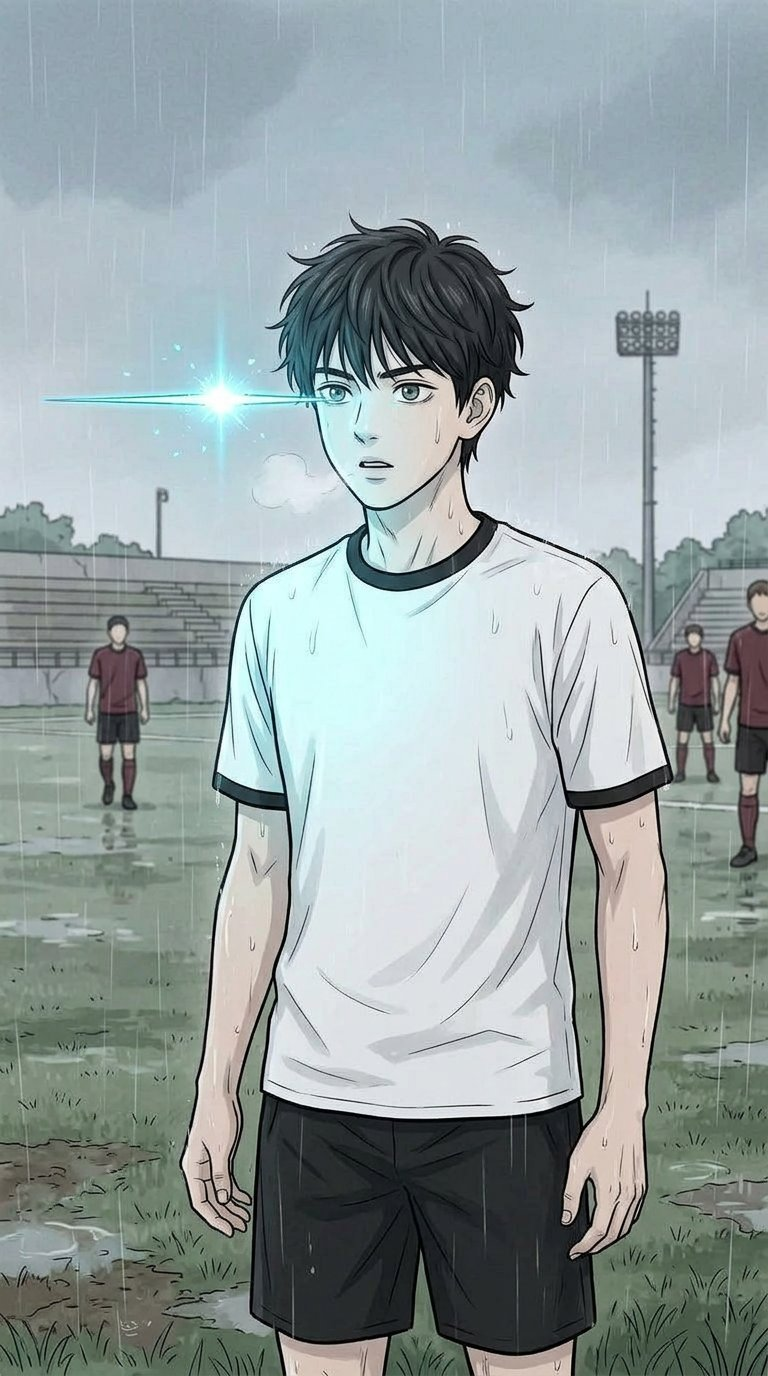
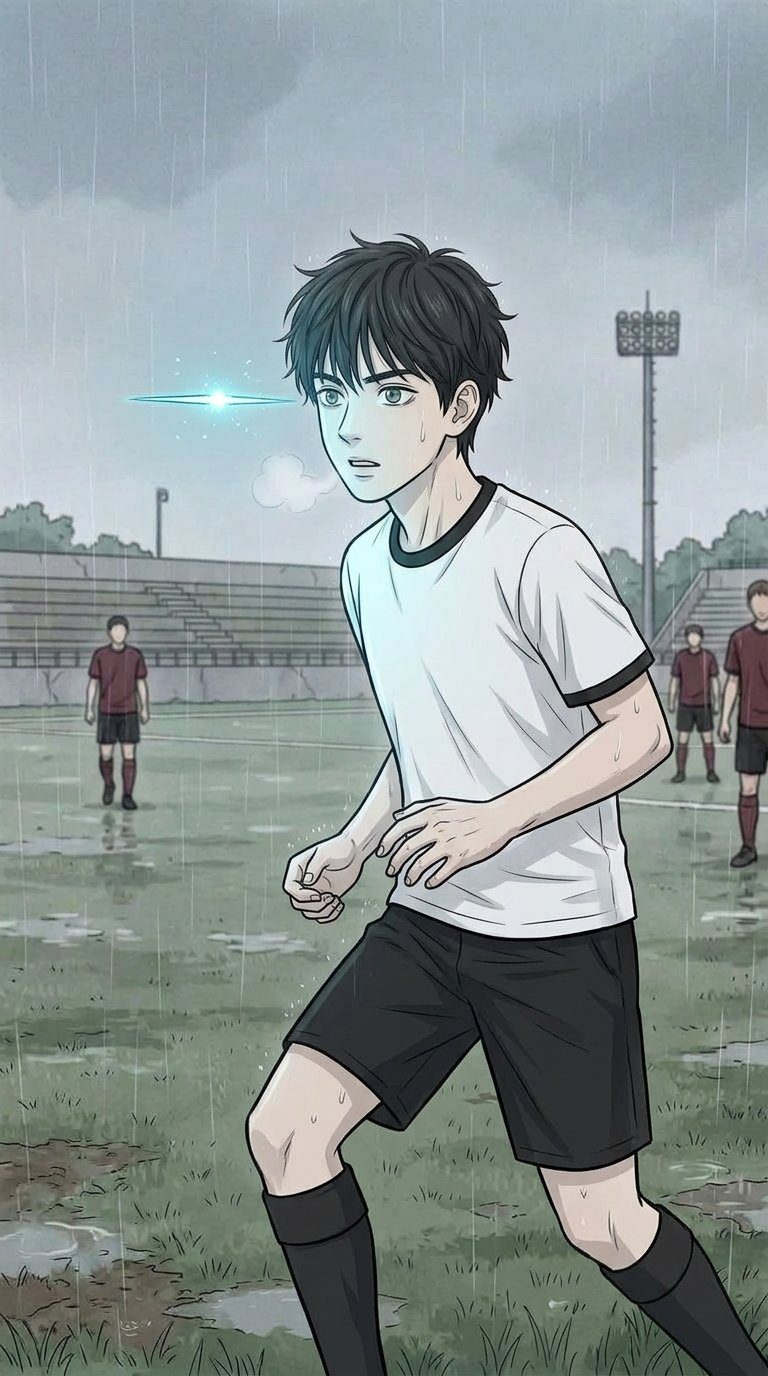
Polish chapter 1 v6 and record checkpoint 2

diff --git a/build_lettering.py b/build_lettering.py
@@ -463,7 +463,7 @@ def apply_ch1_frame(num, im_rgb):
                 ('мачта', (650, 70, 785, 515))]
         stamp(im, (30, 32), '58′ · 2 : 0', boxes, keep, '10_st', size=32)
         say(im, [
-            (412, 292, ['Блин… Опять подбор', 'проспали.']),
+            (412, 292, ['Не успеваем…', 'Совсем сели.']),
         ], tail_to=(568, 498), boxes=boxes, keepouts=keep, tag='10_shat', size=31, bend=-0.12)
 
     elif num == '11':  # 71′ полузащитник Шатский почувствовал дискомфорт в задней поверхности бедра
@@ -512,8 +512,12 @@ def apply_ch1_frame(num, im_rgb):
         sfx(im, (318, 162), 'ТК!', boxes, keep, tag='18_sfx', size=62, angle=-11.0)
 
     elif num == '20':  # 89′ пас низом в одно касание между Корнеевым и Жуком
-        keep = [('ветров', (120, 330, 560, 1205)), ('мяч', (195, 1035, 355, 1208))]
+        keep = [('ветров', (120, 330, 560, 1205)), ('мяч', (195, 1035, 355, 1208)),
+                ('корнеев_голова', (70, 370, 270, 610)), ('жук_голова', (590, 350, 798, 620))]
         stamp(im, (30, 32), '89′', boxes, keep, '20_st', size=32)
+        say(im, [
+            (235, 214, ['В касание?!']),
+        ], tail_to=(174, 414), boxes=boxes, keepouts=keep, tag='20_kor', size=31, bend=-0.12)
         sfx(im, (285, 1286), 'ТУК!', boxes, keep, tag='20_sfx', size=54, angle=-7.0)
 
     elif num == '21':  # раздевалка после матча, руки и бутылка воды
@@ -638,7 +642,7 @@ def render_gutter(bg_top, bg_bot, items, pad_top=74, pad_bot=78, item_gap=44, mi
 
 
 # ══════════════════════════════════════════════════════════════════
-# ПАРТИТУРА ГЛАВЫ 1 (22 кадра: первый выезд, «Речник» и пара
+# ПАРТИТУРА ГЛАВЫ 1 (24 кадра: первый выезд, «Речник» и пара
 # Корнеев–Жук, пробуждение Системы ТОЛЬКО на 72′ в момент сильного
 # волнения, окна в стиле Solo Leveling, живая разговорная речь)
 # ══════════════════════════════════════════════════════════════════
@@ -646,7 +650,7 @@ CH1_OPENING_GUTTER = dict(
     bg=(DARK, PAPER), pad_bot=84, item_gap=38, items=[
         {'kind': 'fade', 'h': 160, 'pad_after': 56},
         {'kind': 'stamp', 'text': 'ВИТЕБСК · НОЯБРЬ'},
-        {'lines': ['Суббота, полседьмого утра.', 'Первый выезд со взрослой командой.'], 'pos': 'center', 'size': 35, 'w': 'em'},
+        {'lines': ['Суббота, девять утра.', 'Первый выезд со взрослой командой.'], 'pos': 'center', 'size': 35, 'w': 'em'},
     ],
 )
 
@@ -697,12 +701,12 @@ CH1_SCORE = [
     ('ch1/n20_firsthalf.jpg', '08', 1380, 3, 'paper', dict(
         bg=(PAPER, PAPER), pad_top=80, pad_bot=84, item_gap=38, items=[
             {'lines': ['Двадцать минут — а мы центр поля', 'раза два перешли.'], 'pos': 'left', 'size': 35, 'w': 'em'},
-            {'lines': ['Корнеев забирает вообще', 'весь подбор.'], 'pos': 'right', 'size': 34, 'w': 'el'},
+            {'lines': ['Корнеев снимает почти всё,', 'что летит в центр.'], 'pos': 'right', 'size': 34, 'w': 'el'},
         ])),
 
     ('ch1/n30_goal_rain.jpg', '09', 1380, 3, 'paper', dict(
         bg=(PAPER, PAPER), pad_top=84, pad_bot=86, item_gap=42, items=[
-            {'lines': ['Ну вот, доигрались.', 'Дали пробить с подбора — по мокрой', 'траве такой не вытащишь.'], 'pos': 'left', 'size': 34, 'w': 'em'},
+            {'lines': ['Ну вот, доигрались.', 'Дали пробить вторым темпом —', 'по мокрой траве такой не вытащишь.'], 'pos': 'left', 'size': 34, 'w': 'em'},
             {'lines': ['До свистка кое-как дотерпели,', 'ушли на перерыв при 0:1.'], 'pos': 'right', 'size': 34, 'w': 'el'},
             {'kind': 'stamp', 'text': '2-Й ТАЙМ'},
             {'lines': ['В раздевалке тренер напихал за центр,', 'но после перерыва нас прижали', 'ещё сильнее.'], 'pos': 'center', 'size': 34, 'w': 'el'},
@@ -711,16 +715,14 @@ CH1_SCORE = [
     # 58′ · 2:0 и 71′ — дискомфорт у Шатского: живая подводка и причина выхода Ветрова
     ('ch1/a10_goal2.jpg', '10', 1380, 3, 'paper', dict(
         bg=(PAPER, PAPER), pad_top=84, pad_bot=88, item_gap=42, items=[
-            {'lines': ['На пятьдесят восьмой пустили второй —', 'Корнеев с Жуком в два паса', 'вскрыли середину.'], 'pos': 'left', 'size': 34, 'w': 'em'},
-            {'lines': ['По такой грязи наши уже еле бегут.'], 'pos': 'right', 'size': 34, 'w': 'el'},
-            {'lines': ['К семидесятой тренер выпустил двоих', 'в атаку, а я так и сижу в олимпийке:', 'при 0:2 пацана точно не тронут.'], 'pos': 'center', 'size': 34, 'w': 'el'},
+            {'lines': ['После перерыва нас растянули по ширине.', 'В центре всё время оставалась дыра.'], 'pos': 'left', 'size': 34, 'w': 'em'},
+            {'lines': ['К семидесятой тренер бросил двоих вперёд.', 'Я так и сижу в олимпийке:', 'при 0:2 пацана точно не тронут.'], 'pos': 'right', 'size': 34, 'w': 'el'},
         ])),
 
     ('ch1/a11_discomfort.jpg', '11', 1260, 3, 'paper', dict(
         bg=(PAPER, PAPER), pad_top=84, pad_bot=88, item_gap=42, items=[
-            {'lines': ['Шатский остановился у бровки —', 'держится за заднюю.'], 'pos': 'left', 'size': 35, 'w': 'em'},
-            {'lines': ['При 0:2 рисковать им нет смысла,', 'впереди ещё два тура. А в центр', 'на лавке больше никого — только я.'], 'pos': 'right', 'size': 34, 'w': 'el'},
-            {'lines': ['Тренер поворачивается к скамейке.'], 'pos': 'center', 'size': 36, 'w': 'em'},
+            {'lines': ['При 0:2 рисковать Шатским незачем —', 'впереди ещё два тура.'], 'pos': 'left', 'size': 34, 'w': 'el'},
+            {'lines': ['В центр на лавке больше никого.', 'Тренер смотрит прямо на меня.'], 'pos': 'right', 'size': 36, 'w': 'em'},
         ])),
 
     # 72′ — ВЫХОД НА ЗАМЕНУ И ПЕРВОЕ ПРОБУЖДЕНИЕ СИСТЕМЫ НА ПИКЕ ВОЛНЕНИЯ
@@ -733,8 +735,8 @@ CH1_SCORE = [
     ('ch1/a11_awakening.jpg', '13', 1400, 2, 'paper', dict(
         bg=(PAPER, DARK), pad_bot=88, item_gap=44, items=[
             {'kind': 'fade', 'h': 160, 'pad_after': 60},
-            {'lines': ['Пульс лупит прямо в ушах,', 'руки ледяные.'], 'pos': 'center', 'size': 35, 'w': 'el'},
-            {'lines': ['Делаю шаг на поле — и прямо перед', 'глазами вспыхивает синяя рамка.'], 'pos': 'center', 'size': 36, 'w': 'em'},
+            {'lines': ['Пульс стучит прямо в ушах.', 'Пальцы не слушаются.'], 'pos': 'center', 'size': 35, 'w': 'el'},
+            {'lines': ['Шаг на поле — и прямо перед лицом', 'вспыхивает тонкая синяя щель.'], 'pos': 'center', 'size': 36, 'w': 'em'},
         ])),
 
     ('ch1/p07_quest.png', '14', 900, 3, 'dark', dict(
@@ -761,7 +763,7 @@ CH1_SCORE = [
     ('ch1/a14_poke.jpg', '18', 492, 5, 'paper', dict(
         bg=(PAPER, DARK), pad_bot=88, item_gap=44, items=[
             {'kind': 'fade', 'h': 155, 'pad_after': 58},
-            {'lines': ['Затянул! Лишние полсекунды', 'искал, кому отдать вперёд.'], 'pos': 'center', 'size': 36, 'w': 'em'},
+            {'lines': ['Принял перед своей штрафной — и затянул.', 'Лишние полсекунды искал,', 'кому отдать вперёд.'], 'pos': 'center', 'size': 35, 'w': 'em'},
             {'lines': ['Жук сразу ткнул носком,', 'а Корнеев оттёр корпусом.'], 'pos': 'center', 'size': 34, 'w': 'el'},
         ])),
 
@@ -775,7 +777,7 @@ CH1_SCORE = [
     ('ch1/k4_pass89.jpg', '20', 1400, 3, 'paper', dict(
         bg=(PAPER, PAPER), pad_top=84, pad_bot=88, item_gap=42, items=[
             {'lines': ['Через минуту опять летят вдвоём.', 'Теперь не жду — сразу в касание', 'между ними.'], 'pos': 'left', 'size': 34, 'w': 'em'},
-            {'lines': ['Прошло! Смотрю вверх… Пусто.', 'За точный пас ничего не вернули.'], 'pos': 'right', 'size': 34, 'w': 'el'},
+            {'lines': ['Пас прошёл. Смотрю вверх… Пусто.', 'За него ничего не вернули.'], 'pos': 'right', 'size': 34, 'w': 'el'},
         ])),
 
     ('ch1/f05_hands.jpg', '21', 1180, 3, 'paper', dict(
@@ -795,15 +797,14 @@ CH1_SCORE = [
 
     ('ch1/k5_kitchen.jpg', '23', 1380, 3, 'dark', dict(
         bg=(DARK, DARK), pad_top=90, pad_bot=90, item_gap=44, items=[
-            {'lines': ['Дома записал цифры, пока помню.', 'Самому не верится — вдруг просто', 'перенервничал с непривычки.'], 'pos': 'center', 'size': 34, 'w': 'el'},
+            {'lines': ['В автобусе нацарапал всё по памяти.', 'Дома переписал начисто — вдруг утром', 'решу, что просто перенервничал.'], 'pos': 'center', 'size': 34, 'w': 'el'},
             {'lines': ['Поднимаю глаза — а над столом', 'опять горит синяя рамка.'], 'pos': 'center', 'size': 36, 'w': 'em'},
         ])),
 
     ('ch1/p37_day.png', '24', 734, 3, 'dark', dict(
         bg=(DARK, DARK), pad_top=94, pad_bot=82, item_gap=44, items=[
-            {'lines': ['Значит, не показалось.', 'И на неделю уже новый квест.'], 'pos': 'center', 'size': 35, 'w': 'el'},
-            {'lines': ['Стоп. А это ещё что за «ИВ»?'], 'pos': 'center', 'size': 36, 'w': 'em'},
-            {'kind': 'accent', 'text': 'ИВ — 68.', 'size': 44},
+            {'lines': ['Отбор — двадцать пять.', 'С этим понятно.'], 'pos': 'center', 'size': 35, 'w': 'el'},
+            {'lines': ['Но «ИВ» — шестьдесят восемь.', 'Откуда столько, если квест я завалил?'], 'pos': 'center', 'size': 37, 'w': 'em'},
         ])),
 ]
 
@@ -839,5 +840,5 @@ if __name__ == '__main__':
                       min_h=CH1_OPENING_GUTTER.get('min_h', 130))
     n_mono = sum(sum(1 for it in g['items'] if it.get('kind', 'mono') not in ('space', 'fade'))
                  for *_, g in CH1_SCORE) + 2
-    print(f'гл. 1: вебтун-леттеринг v4 готов · {len(CH1_SCORE)} кадров · '
+    print(f'гл. 1: вебтун-леттеринг v6 готов · {len(CH1_SCORE)} кадров · '
           f'{total_b} внутрикадровых + {n_mono} межкадровых блоков · 0 пересечений')

diff --git a/docs/CHAPTERS.md b/docs/CHAPTERS.md
@@ -1,6 +1,6 @@
 # РАСКАДРОВКА, ПЕРСОНАЖИ И ТЕХНИЧЕСКАЯ СПЕЦИФИКАЦИЯ
 
-_Актуальное состояние на `CHECKPOINT #1` (2026-11-16). Исходный канон — в `HANDOFF.md`._
+_Актуальное состояние на `CHECKPOINT #2` (2026-11-16). Исходный канон — в `HANDOFF.md`._
 
 ---
 
@@ -20,13 +20,13 @@ _Актуальное состояние на `CHECKPOINT #1` (2026-11-16). Ис
 
 ---
 
-## 2 · Глава 1 «ПЕРВАЯ НЕДЕЛЯ» — раскадровка `v5` (24 кадра)
+## 2 · Глава 1 «ПЕРВАЯ НЕДЕЛЯ» — раскадровка `v6` (24 кадра)
 
-Статус: **в доводке** (`CH1_SCROLL_SL_full.jpg`, `800×42157`, 36 внутрикадровых + 56 межкадровых блоков, 0 пересечений, медиана насыщенности `15.7`).
+Статус: **технически готова к финальному авторскому чтению** (`CH1_SCROLL_SL_full.jpg`, `800×41899`, 37 внутрикадровых + 53 межкадровых блока, 0 пересечений, медиана насыщенности `15.6`; без «утверждаю» в канон не входит).
 
 | № | Файл в `ch1/` | Отсечка | Сцена и действие | Статус |
 |---:|---|---|---|---|
-| 01 | `f02_room.jpg` | `ВИТЕБСК · НОЯБРЬ` | Комната Ветрова утром в субботу, мачта стадиона в окне; подняли в «Торпедо-2» в среду из-за двух дисквалификаций и травмы. | Уточнить время во вступлении (п. 6) |
+| 01 | `f02_room.jpg` | `ВИТЕБСК · НОЯБРЬ` | Комната Ветрова в субботу в девять утра, мачта стадиона в светлом ноябрьском окне; подняли в «Торпедо-2» в среду из-за двух дисквалификаций и травмы. | Готов |
 | 02 | `a02_yard.jpg` | — | Двор базы под дождём, автобус; старшие с кофе: *«А это чей малой?» — «С шестнадцатых взяли. Людей не хватает»*. | Готов |
 | 03 | `a03_bus_day.jpg` | `ВТОРАЯ ЛИГА · 22-Й ТУР` | Дневной автобус на выезд; контраст скоростей юношеского и взрослого футбола. | Готов |
 | 04 | `k1_locker.jpg` | `ГОСТЕВАЯ РАЗДЕВАЛКА` | Ветров у доски с заявкой `РЕЧНИК - ТОРПЕДО-2` (кириллическая вставка из `k1_locker_src.jpg`, последняя строка `18. ВЕТРОВ`). | Готов |
@@ -35,21 +35,21 @@ _Актуальное состояние на `CHECKPOINT #1` (2026-11-16). Ис
 | 07 | `k2b_bench.jpg` | `1-Й ТАЙМ` | Ветров на лавке с бутылкой воды смотрит начало матча (чистый кадр, без Системы). | Готов |
 | 08 | `n20_firsthalf.jpg` | `20′` | Шатский против Корнеева в центре поля под дождём; крик с бровки *«БЛИЖЕ К НЕМУ! НЕ ПЯТЬСЯ!»*. | Готов |
 | 09 | `n30_goal_rain.jpg` | `30′ · 1 : 0` + `2-Й ТАЙМ` | Низовой удар в угол (`ВШХ!`), вратарь «Торпедо-2» в горизонтальном прыжке тянется за мячом; далее перерыв и мостик во 2-й тайм. | Готов |
-| 10 | `a10_goal2.jpg` | `58′ · 2 : 0` | Второй гол «Речника»: Корнеев и Жук отбивают ладонь в глубине, Шатский упёрся в колени; к 70-й двойная замена в атаку, Ветров в олимпийке. | Подчистить повтор в тексте (п. 2) |
-| 11 | `a11_discomfort.jpg` | `71′` | Шатский у бровки держится за заднюю поверхность бедра (*«Тренер, заднюю тянет! Рывок не сделаю!»*); при `0:2` рисковать нельзя, в центр на лавке только Ветров. | Подчистить повтор в тексте (п. 2) |
-| 12 | `k17_enter.jpg` | `72′` | Свисток `ФЬЮ-ИТЬ!`, сброшенная олимпийка у лавки; *«Ветров! Вместо Шатского! Играй просто: принял — сразу в пас! Под Корнеева не лезь!»*. | Убрать солнечную тень (п. 5) |
-| 13 | `a11_awakening.jpg` | — | Выход на газон без разминки, пульс `ТУК-ТУК…`, мысль *«Выдохни. Только не привезти…»*, вспышка Системы `ДЗИ-ИНЬ!`. | Перерисовать блик/позу (п. 1) |
+| 10 | `a10_goal2.jpg` | `58′ · 2 : 0` | Второй гол «Речника»: Корнеев и Жук отбивают ладонь в глубине, Шатский упёрся в колени; к 70-й двойная замена в атаку, Ветров в олимпийке; подпись раскрывает дыру в центре без пересказа штампа. | Готов |
+| 11 | `a11_discomfort.jpg` | `71′` | Шатский у бровки держится за заднюю поверхность бедра (*«Тренер, заднюю тянет! Рывок не сделаю!»*); деревянный навес един с `05`/`07`, земля перед лавкой ещё чистая; подпись даёт только логику замены. | Готов |
+| 12 | `k17_enter.jpg` | `72′` | Свисток `ФЬЮ-ИТЬ!`, сброшенная олимпийка у той же деревянной лавки; *«Ветров! Вместо Шатского! Играй просто: принял — сразу в пас! Под Корнеева не лезь!»*; свет сплошь пасмурный, без солнечной тени. | Готов |
+| 13 | `a11_awakening.jpg` | — | Ветров в движении в три четверти выходит без разминки, пульс `ТУК-ТУК…`, мысль *«Выдохни. Только не привезти…»*; тонкая щель Системы `ДЗИ-ИНЬ!` висит в воздухе перед лицом и не касается глаз. | Готов |
 | 14 | `p07_quest.png` | `[ СИСТЕМА ]` | Парящее сапфировое окно *Solo Leveling*: `F− · КВЕСТ · СТАВКА ОТБОР 26 · 0 потерь в своей трети / пока мяч не уйдёт за лицевую · 26 → 27`. | Канон §5 |
 | 15 | `a13_eyes_rain.jpg` | — | Крупный план Ветрова под дождём с отражением синего окна в глазах (*«Чего?..»*); партнёр бежит мимо, свисток возвращает в игру. | Готов |
 | 16 | `n78_press.jpg` | `78′` | Чистый подкат в луже (`ШХХХ!`), крик *«ВО, ХОРОШ! ТАК И ИГРАЙ!»*; мостик темпа при `2:0` до концовки. | Готов |
-| 17 | `k3c_loss.jpg` | `88′` | Двойной прессинг Жука и Корнеева (*«Чёрт, двое!»* / *«ГОРИШЬ! ОТДАВАЙ!»*). | Уточнить «свою треть» (п. 6) |
+| 17 | `k3c_loss.jpg` | `88′` | Ветров принимает перед своей штрафной, Жук и Корнеев зажимают вдвоём (*«Чёрт, двое!»* / *«ГОРИШЬ! ОТДАВАЙ!»*) — условие «в своей трети» считывается однозначно. | Готов |
 | 18 | `a14_poke.jpg` | — | Горизонтальный кадр-удар (`768×472`): Жук носком вытыкает мяч в брызгах (`ТК!`). | Готов |
 | 19 | `p23_fail.png` | `[ СИСТЕМА ]` | Тревожное алое окно *Solo Leveling*: `НЕ ВЫПОЛНЕНО · КВЕСТ · F− · СТАВКА ОТБОР · 26 → 25 · 88′ · ПОТЕРЯ ПОД ПРЕССИНГОМ`. | Канон §5 |
-| 20 | `k4_pass89.jpg` | `89′` | Снова летят вдвоём — Ветров в одно касание (`ТУК!`) режет пас низом между Корнеевым и Жуком; окно молчит, балл не вернули. | Усилить реакцию Корнеева (п. 3) |
+| 20 | `k4_pass89.jpg` | `89′` | Снова летят вдвоём — Ветров в одно касание (`ТУК!`) режет пас низом между Корнеевым и Жуком; Корнеев реагирует *«В касание?!»*, окно молчит, балл не вернули. | Готов |
 | 21 | `f05_hands.jpg` | — | Грязные мокрые ладони и бутылка на лавке раздевалки; *«Моемся быстро…»*; итог `0:2`, лёд у Шатского, молчание тренера. | Готов |
-| 22 | `k35_bus.jpg` | — | Ночной автобус домой; все спят, Ветров думает о разнице между протоколом матча и окном Системы. | Состыковать тетрадь с `23` (п. 4) |
-| 23 | `k5_kitchen.jpg` | — | Ночная кухня, тетрадь под лампой (`1-я неделя / 72′ — замена / 88′ — потеря | отбор: 25`, вставка из `k5_kitchen_src.jpg`). | Готов |
-| 24 | `p37_day.png` | `[ СИСТЕМА ]` | Финальное окно: `ИТОГ МАТЧА · F− НЕ ВЫПОЛНЕН · ОТБОР 26 → 25 · ИВ МАТЧ 68 · ИВ СЕЗОН 68 · СЛЕДУЮЩИЙ КВЕСТ — ТРЕНИРОВОЧНАЯ НЕДЕЛЯ` + крючок `ИВ — 68.` + `ГЛАВА 1 КОНЧЕНА ↓`. | Заострить крючок ИВ (п. 3) |
+| 22 | `k35_bus.jpg` | — | Ночной автобус домой; все спят, Ветров черновиком записывает увиденное по памяти и думает о разнице между протоколом матча и окном Системы. | Готов |
+| 23 | `k5_kitchen.jpg` | — | Ночная кухня: Ветров переписывает автобусный черновик начисто (`1-я неделя / 72′ — замена / 88′ — потеря | отбор: 25`, вставка из `k5_kitchen_src.jpg`). | Готов |
+| 24 | `p37_day.png` | `[ СИСТЕМА ]` | Финальное окно: `ИТОГ МАТЧА · F− НЕ ВЫПОЛНЕН · ОТБОР 26 → 25 · ИВ МАТЧ 68 · ИВ СЕЗОН 68 · СЛЕДУЮЩИЙ КВЕСТ — ТРЕНИРОВОЧНАЯ НЕДЕЛЯ`; крючок: *«Но „ИВ“ — шестьдесят восемь. Откуда столько, если квест я завалил?»* + `ГЛАВА 1 КОНЧЕНА ↓`. | Готов |
 
 ### Служебные и неиспользуемые файлы в `ch1/`
 - `f08_eyes.jpg` — каноничный эталон лица/глаз Ветрова (§3 #11).

diff --git a/docs/QC_CH1-5_2026-11-13.md b/docs/QC_CH1-5_2026-11-13.md
@@ -172,6 +172,14 @@
   2. **Причина выхода на `72′` — дискомфорт у полузащитника (`11 ch1/a11_discomfort.jpg`, `71′` → `12 ch1/k17_enter.jpg`, `72′`):** добавлен новый кадр `11 ch1/a11_discomfort.jpg` у той же самой бровки и скамейки — стартовый центральный полузащитник **Шатский** (из заявки `04` и единоборства `08`) останавливается, держится за заднюю поверхность бедра и машет тренеру (*«Тренер, заднюю тянет! Рывок не сделаю!»*), Ветров сидит на краю лавки в чёрной олимпийке (земля перед лавкой чистая — а через минуту в `12` там уже лежит его сброшенная олимпийка); при `0:2` за два тура до конца сезона рисковать Шатским нельзя, других центральных на лавке нет (связка с кадром `01`: двое на карточках, один сломался) — на `72′` тренер выпускает Ветрова вместо Шатского; далее сквозная сверка счёта `2:0` проведена через `12` (*«горим 0:2»*), `16` (`78′` — темп «Речника» при `2:0`), `19` (*«третий не пустили»*) и `21` (*«Так 0:2 и закончили. Шатскому примотали лёд к бедру…»*). Полная лента `CH1_SCROLL_SL_full.jpg` (`800×42157`, 24 кадра, 36 внутрикадровых + 56 межкадровых блоков, 0 пересечений, насыщ. медиана `15.7`) + лист `CH1_SL_SHEET.jpg`.
 - **Почему:** замечание автора по v4 — убрать резкий скачок после первого гола, дать ход матча с комментариями, довести счёт до `2:0` и показать дискомфорт у полузащитника как причину выхода Ветрова.
 
+### 29. Глава 1 · v6 (закрытие 6/6 замечаний сквозного чтения `v5` и финальная техническая доводка)
+- **глава 1 · кадр 13 · было → стало · почему:** было — `ch1/a11_awakening.jpg` показывал Ветрова фронтально и неподвижно, а голубая вспышка проходила по линии правого глаза и читалась как «лазер из зрачка» → стало — Ветров движется по полю в ракурсе три четверти, руки и шаг напряжены естественно, холодный пар и ливень сохранены; тонкая голубая щель Системы висит в пустом воздухе перед лицом, физически отделена от обоих глаз, не является лучом и ещё не развёрнута в полное окно; подпись уточнена до *«Шаг на поле — и прямо перед лицом вспыхивает тонкая синяя щель»* → почему: первое пробуждение Системы должно читаться как внешний невидимый интерфейс на пике волнения, а не как способность глаз героя.
+- **глава 1 · кадры 08–11 и 13 · было → стало · почему:** было — межкадровый текст местами пересказывал штампы и рисунок (`58′ · 2:0` повторялось словами, травма Шатского снова описывалась под кадром), трижды шло слово *«подбор»*, а `05` и `10` начинались одинаковым *«Блин… Опять…»* → стало — `08`: *«Корнеев снимает почти всё, что летит в центр»*; `09`: удар *«вторым темпом»*; `10`: живая реплика Шатского *«Не успеваем… Совсем сели»* и только новая информация о растянутой ширине и дыре в центре; `11`: только логика риска за два тура и отсутствия другого ЦПЗ на лавке; `13`: короткие телесные ощущения и щель перед лицом; число межкадровых блоков сокращено `56 → 53` → почему: убрать повтор изображения словами, развести лексику и ускорить мобильный ритм без потери футбольной причинности.
+- **глава 1 · кадры 11–12 · было → стало · почему:** было — в `05`/`07` запасные сидели под простым деревянным навесом, а в `11`/`12` внезапно появлялся прозрачный пластиковый бокс; на мокром поле `12` лежала длинная резкая солнечная тень → стало — `ch1/a11_discomfort.jpg` и `ch1/k17_enter.jpg` приведены к тому же типу старого деревянного навеса и лавки; на `71′` гравий перед лавкой чист, на `72′` там уже лежит единственная сброшенная олимпийка Ветрова; свет в обоих кадрах равномерно холодный и пасмурный, без солнечных теней → почему: единая география скамейки, непрерывность действия по минутам и правдоподобная погода в сцене сплошного ливня.
+- **глава 1 · кадры 01, 17–18 и 22–23 · было → стало · почему:** было — светлое ноябрьское окно сопровождалось временем *«полседьмого утра»*; место потери при условии *«0 потерь в своей трети»* было неочевидно; Ветров уже писал в автобусе, но дома говорил, будто только там начал запись → стало — вступление: *«Суббота, девять утра»*; перед потерей: *«Принял перед своей штрафной — и затянул»*; в автобусе он нацарапал черновик по памяти, дома переписал начисто → почему: убрать бытовую, футбольную и предметную нестыковки, не добавляя новых кадров.
+- **глава 1 · кадры 20 и 24 · было → стало · почему:** было — хороший пас Ветрова на `89′` проходил без реакции сильного соперника, а финальный вопрос *«что за ИВ?»* слабо связывал провал с необычно высоким числом → стало — Корнеев, весь матч душивший центр, оборачивается с репликой *«В касание?!»* на пас Ветрова между двоих; после итогового окна Ветров сопоставляет *«Отбор — двадцать пять»* и *«ИВ — шестьдесят восемь»* и спрашивает: *«Откуда столько, если квест я завалил?»* → почему: без пафоса обозначить сильную сторону героя (скорость решения/видение) и сделать ясный смысловой крючок ко 2-й главе, не отменяя поражение `0:2` и провал квеста.
+- **глава 1 · вся лента · было → стало · почему:** было — `v5`, `800×42157`, 36 внутрикадровых + 56 межкадровых блоков, медиана насыщенности `15.7`, шесть открытых замечаний → стало — `v6`, `CH1_SCROLL_SL_full.jpg` `800×41899`, 24 кадра, 37 внутрикадровых + 53 межкадровых блока, 0 пересечений, медиана насыщенности `15.6`; `CH1_SL_SHEET.jpg` пересобран, полная глава прочитана сверху вниз в десяти телефонных полосах, все 6 замечаний закрыты, новых технических/канонических ошибок не найдено → почему: финальная техническая доводка Главы 1 перед личным чтением автора и возможным словом «утверждаю» (до него глава каноном не считается).
+
 ---
 
 # ОСТАЛОСЬ (не закрыто)

diff --git a/docs/WORKFLOW_LOG.md b/docs/WORKFLOW_LOG.md
@@ -18,34 +18,27 @@ _Проект: «ПОКА ПОВРЕМЕНИМ», том 1 (главы 1–5) ·
 
 ## Текущий счётчик
 
-- **Последняя контрольная точка:** `CHECKPOINT #1` — `2026-11-16` (создание Git-документации и фиксация состояния Главы 1 `v5` + базового конвейера Глав 1–5).
+- **Последняя контрольная точка:** `CHECKPOINT #2` — `2026-11-16` (Глава 1 `v6`: закрыты все 6 пунктов сквозного разбора, пересобрана и проверена полная лента).
 - **Шагов с последнего чекпоинта:** **`0 / 5`**
-- **Следующая обязательная фиксация документации в Git:** на шаге **`5 / 5`** (`CHECKPOINT #2`) либо сразу при утверждении Главы 1.
-- **Активная глава:** **Глава 1 «ПЕРВАЯ НЕДЕЛЯ»** (`v5`, 24 кадра, `800×42157`).
+- **Следующая обязательная фиксация документации в Git:** на шаге **`5 / 5`** (`CHECKPOINT #3`) либо сразу после авторского «утверждаю» по Главе 1.
+- **Активная глава:** **Глава 1 «ПЕРВАЯ НЕДЕЛЯ»** (`v6`, 24 кадра, `800×41899`, технически готова к финальному авторскому чтению).
 
-### Текущая пятёрка шагов (к `CHECKPOINT #2`)
+### Текущая пятёрка шагов (к `CHECKPOINT #3`)
 
-- [ ] Шаг 1/5 — _ожидает решения автора по 6 пунктам разбора гл. 1 v5_
+- [ ] Шаг 1/5 — _финальное чтение Главы 1 автором / точечная авторская правка_
 - [ ] Шаг 2/5 — _свободно_
 - [ ] Шаг 3/5 — _свободно_
 - [ ] Шаг 4/5 — _свободно_
-- [ ] Шаг 5/5 — _CHECKPOINT #2: обновление `README.md` + `docs/*` + `git commit` & `git push`_
+- [ ] Шаг 5/5 — _CHECKPOINT #3: обновление `README.md` + `docs/*` + `git commit` & `git push`_
 
 ---
 
-## Открытые задачи по Главе 1 (`v5` → ждут решения автора)
+## Глава 1 `v6` — результат контрольного чтения
 
-По итогам сквозного читательского разбора ленты `CH1_SCROLL_SL_full.jpg` (`2026-11-16`):
-
-1. **Кадр `13` (`ch1/a11_awakening.jpg`) — вспышка Системы и поза.** Синий блик лёг поверх правого зрачка (читается как «луч из глаза»), поза фронтальная и статичная. Предложение: перерисовать в три четверти в движении, чтобы тонкая голубая щель Системы раскрывалась *в воздухе перед лицом*, отдельно от глаза.
-2. **Ритм межкадрового текста и словесные повторы (`08–11`, `16`).** Сократить 6–7 дублей, где курсив пересказывает уже показанное в кадре/штампе (`58′ · 2:0` → *«На пятьдесят восьмой пустили второй»*; `71′` → *«Шатский остановился у бровки — держится за заднюю»*); развести тройной повтор слова «подбор» (`08`, `09`, `10`) и двойной зачин *«Блин… Опять…»* (`05`, `10`), синхронизировать реплику и описание второго гола в `10`.
-3. **Крючок таланта в `20` (`89′`, `ch1/k4_pass89.jpg`) и финальный крючок в `24` (`p37_day.png`).** В `20` добавить короткую реакцию Корнеева на пас в касание между двоих (без пафоса, счёт остаётся `0:2`), а в `24` заострить контраст чисел (*«Отбор — 25, а какой-то „ИВ“ — 68»*) как мостик ко 2-й главе.
-4. **Стыковка тетради (`22` ночной автобус → `23` кухня).** В `22` (`k35_bus.jpg`) Ветров уже держит ручку над раскрытой тетрадью, а в `23` думает *«Дома записал цифры, пока помню»* — развести по смыслу в тексте или убрать ручку в автобусе.
-5. **Погодный свет в `12` (`72′`, `ch1/k17_enter.jpg`).** Убрать жёсткую косую «солнечную» тень на газоне, чтобы кадр совпадал по пасмурному ливню с `09–11` и `16–17`.
-6. **Бытовые и пространственные мелочи:**
-   - вступление к `01`: заменить *«Суббота, полседьмого утра»* на реалистичное для светлого ноябрьского окна и выезда 2-й лиги время (*«Суббота, девять утра»*);
-   - `17–18` (`88′`): коротко обозначить, что приём и потеря случились перед своей штрафной (точное совпадение с условием *«0 потерь в своей трети»*);
-   - `05`/`07` vs `11`/`12`: при необходимости привести навес скамейки запасных к одному типу (деревянный vs пластиковый козырёк).
+- Закрыто **6 из 6** замечаний, найденных при сквозном чтении `v5`: пробуждение Системы, ритм и повторы текста, крючки в `89′` и финале, тетрадь, погодный свет, время/своя треть/единая скамейка.
+- Полная лента `CH1_SCROLL_SL_full.jpg` прочитана сверху вниз в десяти телефонных полосах; монтажный лист `CH1_SL_SHEET.jpg` проверен отдельно.
+- Сборка: **24 кадра**, **37 внутрикадровых + 53 межкадровых блока**, **0 пересечений**, `800×41899`, медиана насыщенности `15.6`.
+- Новых технических или канонических ошибок при контрольном чтении не найдено. **Канонический статус не присвоен:** глава ждёт личного финального чтения и слова **«утверждаю»** автора.
 
 ---
 
@@ -60,6 +53,16 @@ _Проект: «ПОКА ПОВРЕМЕНИМ», том 1 (главы 1–5) ·
 ---
 
 ## История контрольных точек
+
+### `CHECKPOINT #2` · 2026-11-16 · Глава 1 `v6`: закрытие шести пунктов сквозного разбора
+
+Пять завершённых шагов после `CHECKPOINT #1` (подробный покадровый журнал — `docs/QC_CH1-5_2026-11-13.md`, п. 29):
+
+1. **Шаг 1/5 · кадр `13`:** `ch1/a11_awakening.jpg` перерисован из фронтальной статичной позы в живое движение в три четверти; голубая щель Системы теперь висит в воздухе перед Ветровым и отделена от глаз пустым пространством.
+2. **Шаг 2/5 · кадры `11–12`:** `ch1/a11_discomfort.jpg` и `ch1/k17_enter.jpg` приведены к одному деревянному навесу с `05`/`07`; в `11` земля перед лавкой чистая, в `12` уже лежит сброшенная олимпийка; из `12` удалена солнечная тень, оставлен сплошной пасмурный ливень.
+3. **Шаг 3/5 · текст/логика (`01`, `08–11`, `13`, `17–18`, `22–23`):** утро исправлено на `девять`, убраны повторы «подбор» и пересказ штампов/картинки, потеря привязана к своей штрафной, запись в тетради разведена как черновик в автобусе → чистовик дома.
+4. **Шаг 4/5 · крючки (`20`, `24`):** на пас Ветрова в касание между двоих Корнеев реагирует *«В касание?!»*; финал противопоставляет `ОТБОР 25` и `ИВ 68` вопросом *«Откуда столько, если квест я завалил?»*.
+5. **Шаг 5/5 · сборка/QC:** `build_lettering.py` и `build_scrolls.py` прошли без ошибок; полная лента (`800×41899`) и лист прочитаны визуально, 37 + 53 блока, 0 пересечений, насыщенность `15.6`.
 
 ### `CHECKPOINT #1` · 2026-11-16 · Базовая документация в Git и фиксация Главы 1 `v5`
 

diff --git a/README.md b/README.md
@@ -12,7 +12,7 @@
 
 | Глава | Название | Статус | Кадров | Лента (`px`) | Насыщ. (мед.) | Панели Системы |
 |---|---|---|---:|---|---:|---|
-| **1** | **ПЕРВАЯ НЕДЕЛЯ** | В доводке (**v5**, проведён читательский разбор — 6 пунктов на решение автора) | 24 | `800×42157` | `15.7` | `p07_quest` (`F−`), `p23_fail` (`26→25`), `p37_day` (`ИВ 68`) |
+| **1** | **ПЕРВАЯ НЕДЕЛЯ** | **v6: технически доведена; 6/6 пунктов сквозного разбора закрыты, ожидает финального чтения и «утверждаю» автора** | 24 | `800×41899` | `15.6` | `p07_quest` (`F−`), `p23_fail` (`26→25`), `p37_day` (`ИВ 68`) |
 | **2** | **ДОБРО ПОЖАЛОВАТЬ, ИГРОК** | Ожидает утверждения гл. 1 (панели обновлены под *Solo Leveling*) | 13 | `800×21460` | `15.1` | `p14_quest` (`F`), `p22_done` (`300/300`), `p24_total` (`ОБЩ 37 · ИВ 68`) |
 | **3** | **ИЗ УВАЖЕНИЯ К ТАЙМИНГУ** | Ожидает гл. 2 (панели обновлены; в очереди правка заявки на 18 чел.) | 12 | `800×19850` | `13.9` | `p09_quest` (`F+`), `p22_done` (`3/3`) |
 | **4** | **ПРОТОКОЛ 1:0** | Ожидает гл. 3 (панели обновлены; в очереди выравнивание температуры) | 11 | `800×18240` | `26.6` | `p09_quest` (`F+`), `p28_done` (`3/3 · 6.6`) |
@@ -28,7 +28,7 @@
 | `START_HERE.md` | Быстрый старт для новой сессии: что читать первым и какие правила нельзя нарушать. |
 | `docs/WORKFLOW_LOG.md` | **Оперативный журнал и счётчик «каждые 5 шагов»**: контрольные точки, хронология итераций, открытый список правок и очередь задач. |
 | `docs/CHAPTERS.md` | Актуальная покадровая раскадровка, паспорта персонажей и команд, канон чисел и техническая схема конвейера. |
-| `docs/QC_CH1-5_2026-11-13.md` | Полный журнал всех правок в строгом формате `глава N · кадр NN · было → стало · почему` (п. 1–28). |
+| `docs/QC_CH1-5_2026-11-13.md` | Полный журнал всех правок в строгом формате `глава N · кадр NN · было → стало · почему` (п. 1–29). |
 | `HANDOFF.md` | Базовый каноничный документ тома 1 (правила мира, таблица 12 характеристик, дословные тексты 13 панелей, исходный архивный справочник). |
 
 ---
